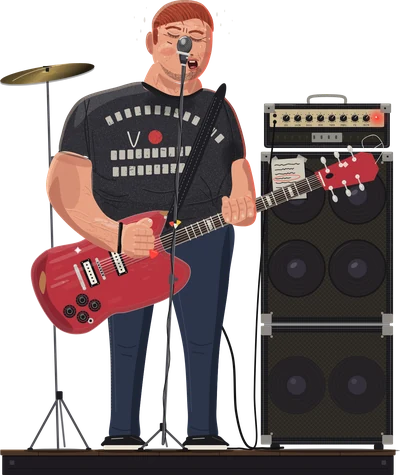
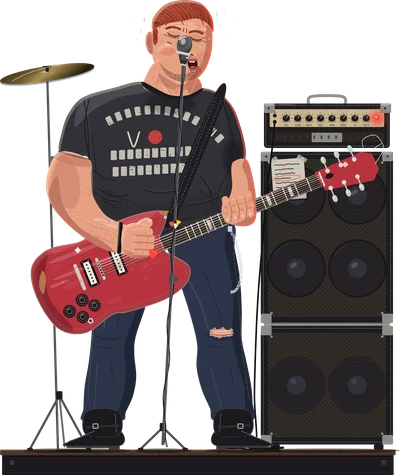
T and C art: thicker legs, wide stance, ripped jeans, boots and a wallet chain
Claude-Session: https://claude.ai/code/session_011e9AebsBqbLXaDrK84DWYp

Changed region(s): [[0.42, 0.4716, 0.69, 0.9726], [0.15, 0.6189, 0.39, 0.9726]]

diff --git a/posts.js b/posts.js
@@ -27,7 +27,7 @@ window.POSTS = [
     line: "Every time I play with passion, I start breaking strings, and my voice cracks when I sing from the heart.",
     excerpt: "…my voice cracks when I sing from the heart.",
     why: "This line has stuck with me for over 20 years. Sometimes when we do something we're passionate about, it's not perfect. Things break. It might not be polished, but we do it anyway. It's like building a prototype: not perfect, not polished, but we build it, and we're passionate about it.",
-    alt: "A singer at the mic with eyes shut and a red guitar, standing on a small stage beside a cymbal and a full amp stack",
-    size: [1259, 1496]
+    alt: "A singer at the mic with eyes shut and a red guitar, standing wide in ripped jeans and boots on a small stage beside a cymbal and a full amp stack",
+    size: [1259, 1497]
   }
 ];
